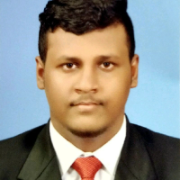
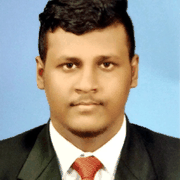
Add files via upload

diff --git a/_includes/site-footer.html b/_includes/site-footer.html
@@ -3,7 +3,7 @@
   <hr class="hr">
   <div class="site-footer-inner">
     <div>
-      <img class="footer-portrait" src="{{ '/icon.png' | relative_url }}" alt="{{ p.name }}" width="72" height="72">
+      {% include portrait.html class="footer-portrait" size="72" alt=p.name loading="lazy" %}
       <p class="site-footer-name">{{ p.name }} — {{ p.job_title }}, {{ p.worksFor }}</p>
       <p>Technical SEO, on-page optimization, link acquisition and AI search visibility, working from {{ p.locality }}, {{ p.country_name }}.</p>
       <a class="btn btn-primary" href="{{ '/contact/' | relative_url }}">Work with me {% include icon.html name="arrow-right" %}</a>

diff --git a/_includes/site-header.html b/_includes/site-header.html
@@ -2,7 +2,7 @@
 <header class="site-header">
   <div class="site-header-inner">
     <a class="brand" href="{{ '/' | relative_url }}">
-      <img class="brand-mark" src="{{ '/icon.png' | relative_url }}" alt="" width="36" height="36">
+      {% include portrait.html class="brand-mark" size="36" alt="" %}
       <span class="brand-text">
         <span class="brand-name">{{ p.name }}</span>
         <span class="brand-role">{{ p.job_title }} · {{ p.country_name }}</span>

diff --git a/_includes/portrait.html b/_includes/portrait.html
@@ -1,0 +1,4 @@
+<picture>
+  <source srcset="{{ '/assets/img/portrait-144.webp' | relative_url }}" type="image/webp">
+  <img class="{{ include.class }}" src="{{ '/assets/img/portrait-144.jpg' | relative_url }}" alt="{{ include.alt }}" width="{{ include.size }}" height="{{ include.size }}"{% if include.loading %} loading="{{ include.loading }}" decoding="async"{% endif %}>
+</picture>

diff --git a/assets/css/style.scss b/assets/css/style.scss
@@ -154,6 +154,7 @@ a:hover { color: var(--color-accent-200); }
 }
 
 img { max-width: 100%; height: auto; }
+.brand picture, .site-footer picture { display: block; flex: none; line-height: 0; }
 
 .skip-link {
   position: absolute;
